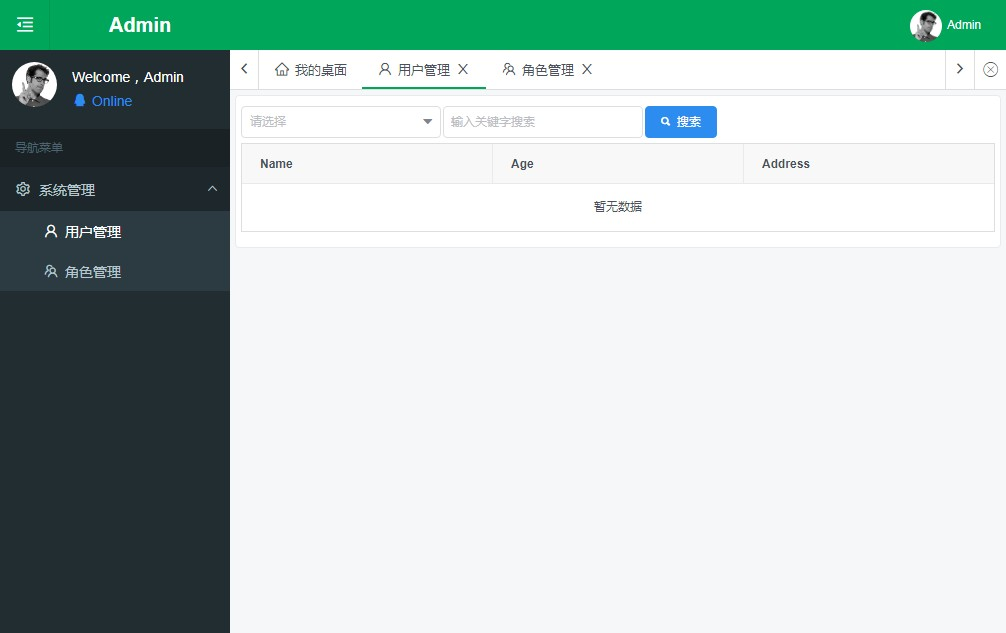
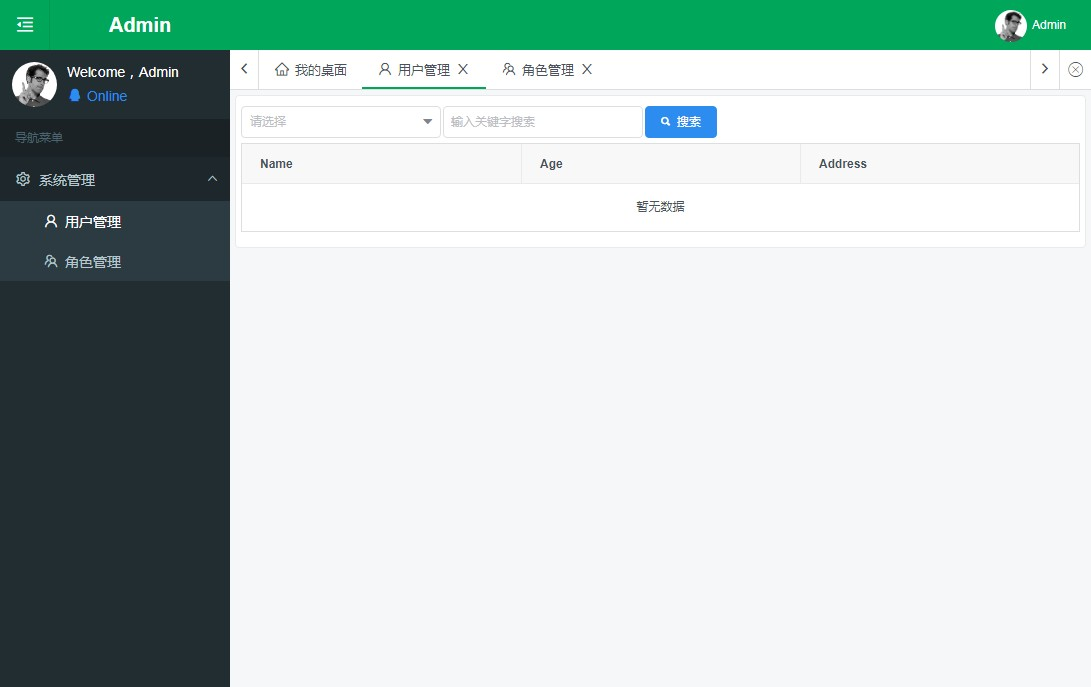
style

diff --git a/src/app.css b/src/app.css
@@ -30,9 +30,9 @@ body,html{overflow:hidden;margin:0;padding:0;width:100%;height:100%}
 .side-menu-wrapper .menu-collapsed .ivu-select-dropdown{width:160px;margin-left:4px}
 .side-menu-wrapper a.drop-menu-a{display:inline-block;padding:6px 15px;width:100%;text-align:center;color:#495060}
 .app-sider .menu-user-avator{ border-radius:50%; margin: 8px 9px; }
-.sider-user-box{padding: 12px;}
-.sider-user-box .ivu-avatar-image{width: 45px; height: 45px; border-radius: 50%;float: left;}
-.sider-user-box .info{ margin-left: 50px; padding: 5px 5px 5px 10px;color: #fff;font-size: 14px}
+.sider-user-box{padding: 12px;display:flex;align-items:center;}
+.sider-user-box .ivu-avatar-image{width: 45px; height: 45px; border-radius: 50%;}
+.sider-user-box .info{ margin-left: 10px; color: #fff;font-size: 14px}
 .app-sider .menu-header{padding:10px 25px 10px 15px;background: #1a2226;color: #4b646f}
 .app-sider .ivu-menu{ color: #b8c7ce}
 .app-sider .ivu-menu-vertical.ivu-menu-light:after{width: 0}

diff --git a/src/views/main/Main.vue b/src/views/main/Main.vue
@@ -15,7 +15,7 @@
           <div v-if="!isTab" class="custom-bread-crumb">
             <Breadcrumb>
               <BreadcrumbItem v-for="item in breadCrumbList" :to="item.to" :key="`bread-crumb-${item.name}`">
-                <Icon :type="item.icon || ''"></Icon>
+                <IconFont :type="item.icon || ''" />
                 {{ showTitle(item) }}
               </BreadcrumbItem>
             </Breadcrumb>
@@ -29,6 +29,7 @@
   </Layout>
 </template>
 <script>
+import IconFont from '_c/icon-font'
 import AppHeader from '_c/main/app-header'
 import AppSiderNav from '_c/main/app-sider-nav'
 import AppTabNav from '_c/main/app-tab-nav'
@@ -38,6 +39,7 @@ import { showTitle } from '@/libs/util'
 export default {
   name: 'Main',
   components: {
+    IconFont,
     AppHeader,
     AppSiderNav,
     AppTabNav
